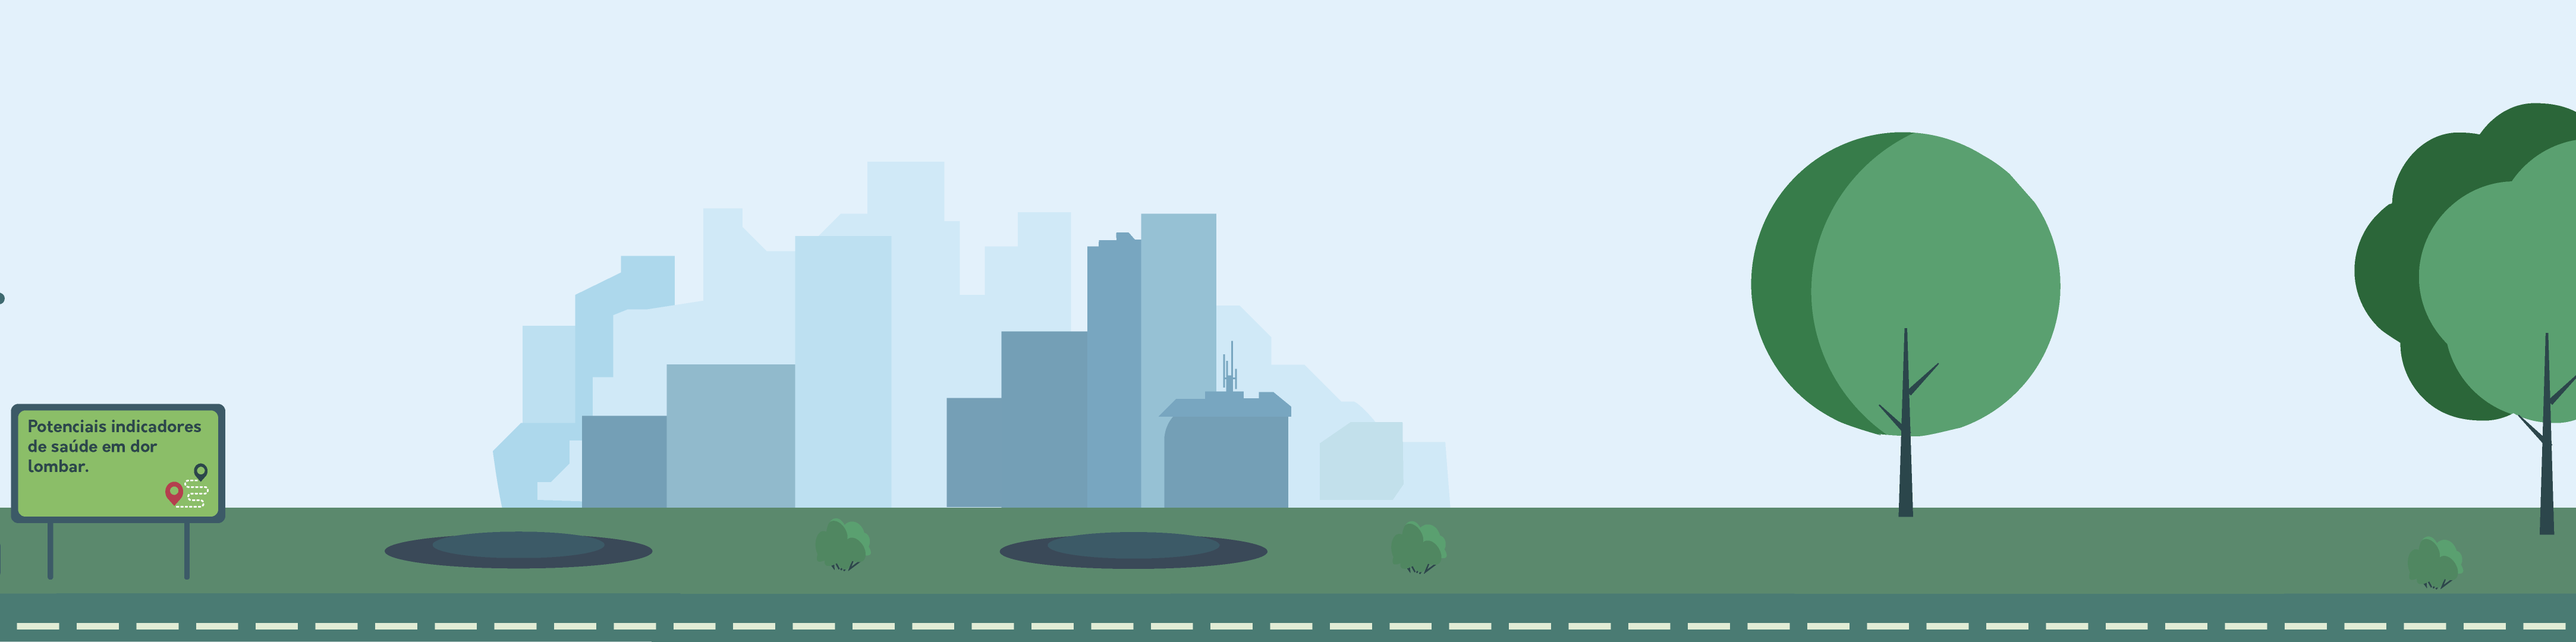
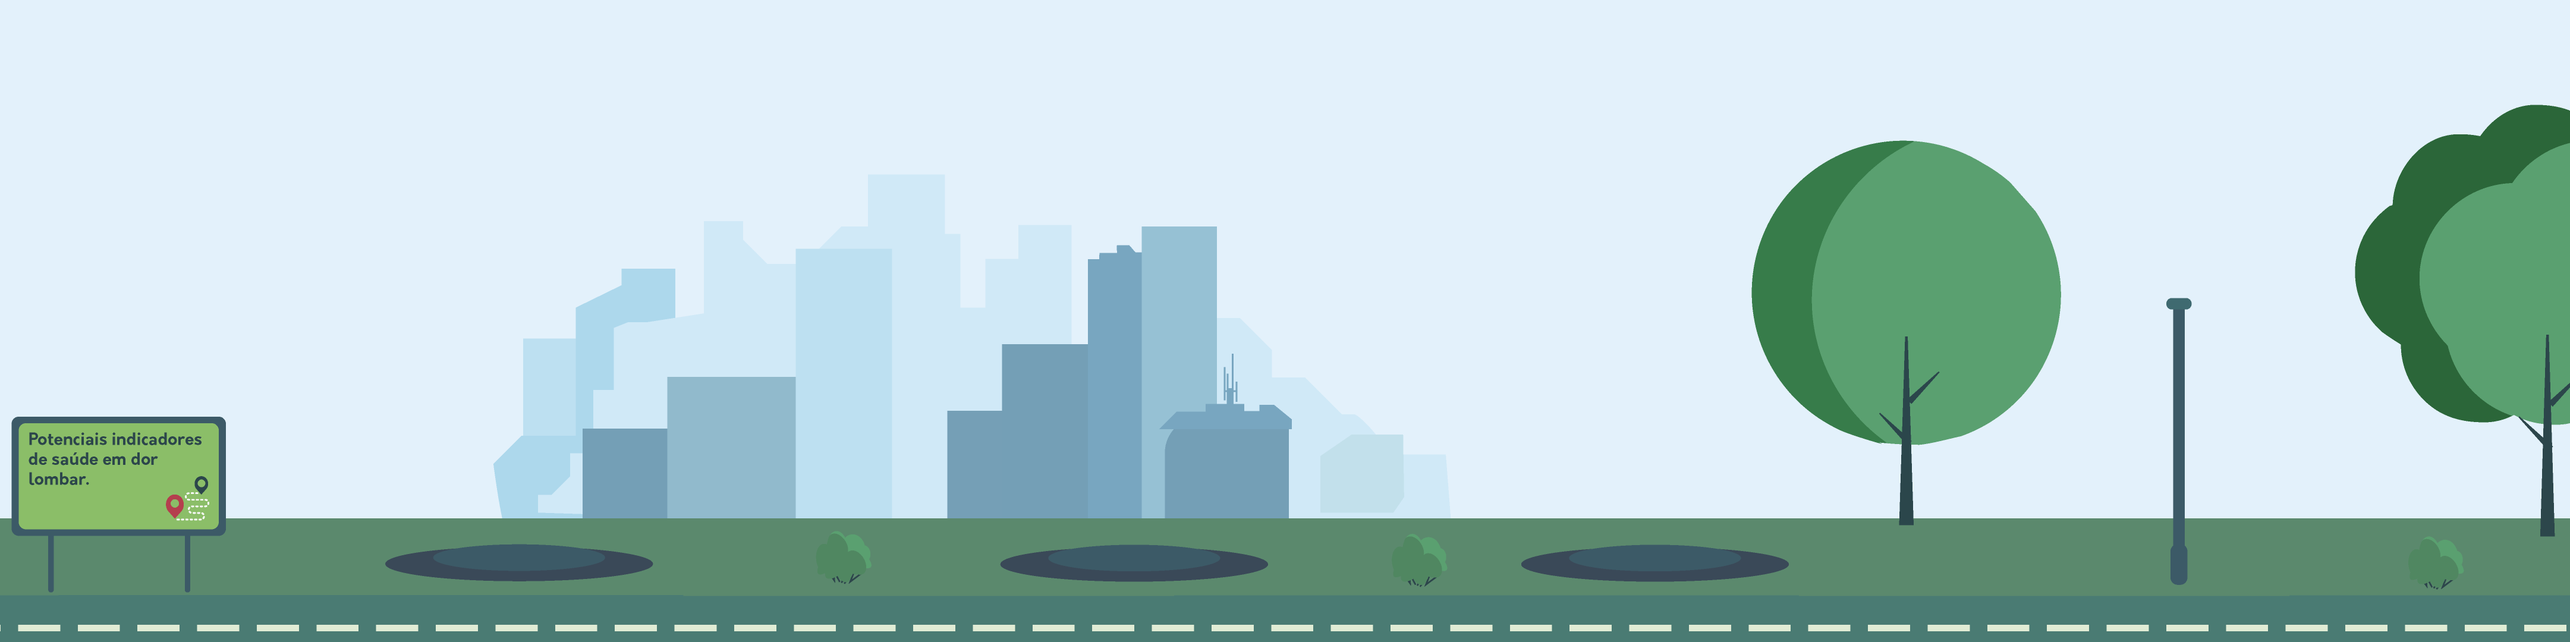
bota o que tu fez aqui

diff --git a/style/style.css b/style/style.css
@@ -235,6 +235,14 @@ body {
     background-repeat: no-repeat;
 
 }
+.menino{
+    width: 38px;
+    position: absolute;
+    height: auto;
+    top: calc(100vh - 153px);
+    left: 5765px;
+
+}
 /*ELEMENTOS DO CENARIO*/
 
 .passaro {
@@ -299,7 +307,7 @@ body {
     position: absolute;
     height: auto;
     top: calc(100vh - 294px);
-    left: 5298px;
+    left: 5332px;
 
 }
 
@@ -307,10 +315,10 @@ body {
 /*OUTDOORS1*/
 .outdoor11 {
     position: absolute;
-    left: -3222px;
-    top: calc(100vh - 405px);
+    left: -3262px;
+    top: calc(100vh - 471px);
     width: auto;
-    height: 358px;
+    height: 426px;
 }
 
 
@@ -321,7 +329,7 @@ body {
     position: absolute;
     height: 409px;
     left: -2379px;
-    top: calc(100vh - 539px);
+    top: calc(100vh - 531px);
     width: 390px;
     background-repeat: no-repeat;
     background-size: 100% !important;
@@ -329,8 +337,8 @@ body {
 .texto2 {
     position: absolute;
     height: 413px;
-    left: -1944px;
-    top: calc(100vh - 539px);
+    left: -1912px;
+    top: calc(100vh - 531px);
     width: 390px;
     background-repeat: no-repeat;
     background-size: 100% !important;
@@ -338,8 +346,8 @@ body {
 .texto3 {
     position: absolute;
     height: 413px;
-    left: -1616px;
-    top: calc(100vh - 539px);
+    left: -1467px;
+    top: calc(100vh - 531px);
     width: 403px;
     background-repeat: no-repeat;
     background-size: 100% !important;
@@ -347,8 +355,8 @@ body {
 .texto4 {
     position: absolute;
     height: 409px;
-    left: -1207px;
-    top: calc(100vh - 539px);
+    left: -1038px;
+    top: calc(100vh - 531px);
     width: 403px;
     background-repeat: no-repeat;
     background-size: 100% !important;
@@ -359,10 +367,10 @@ body {
 /*OUTDOORS2*/
 .outdoor21 {
     position: absolute;
-    left: -725px;
-    top: calc(100vh - 539px);
+    left: -651px;
+    top: calc(100vh - 471px);
     width: auto;
-    height: 490px;
+    height: 426px;
 }
 
 /*HOLOGRAMAS*/

diff --git a/js/main-info.js b/js/main-info.js
@@ -203,12 +203,12 @@ function animeManu(classe, numerador, denominador){
 
  
 
-  mudaOutdoor1(target,3.5,4,0.5);
+  mudaOutdoor1(target,3.5,4,1);
   animeTexto(target2,0.5,4,3);
-  animeTexto(target3,3,4,5.5)
-  animeTexto(target4,5.5,4,7.5);
-  animeTexto(target5,7.5,4,10.5);
-  mudaOutdoor2(target6, 11, 4,13.5);
+  animeTexto(target3,3,4,6)
+  animeTexto(target4,6,4,8);
+  animeTexto(target5,8,4,10.5);
+  mudaOutdoor2(target6, 11.2, 4,14);
   animeHolograma(target7,9,4,12);
   animeHolograma(target8, 13, 4,15);
   animeHolograma(target9, 15.5, 4,18);

diff --git a/page.html b/page.html
@@ -396,6 +396,7 @@
         <!--FIM DOS TEXTOS SERRILHADOS-->
         <!--OUTDOOR 2-->
         <img class="importante2" src="imgs/outdoors2/importante2.png" id="outdoor2">
+        <img class="menino" src="imgs/personagens/menino.png" id="menino">
           <section class="anime-outdoor2">
             <img
               class="outdoor21"
